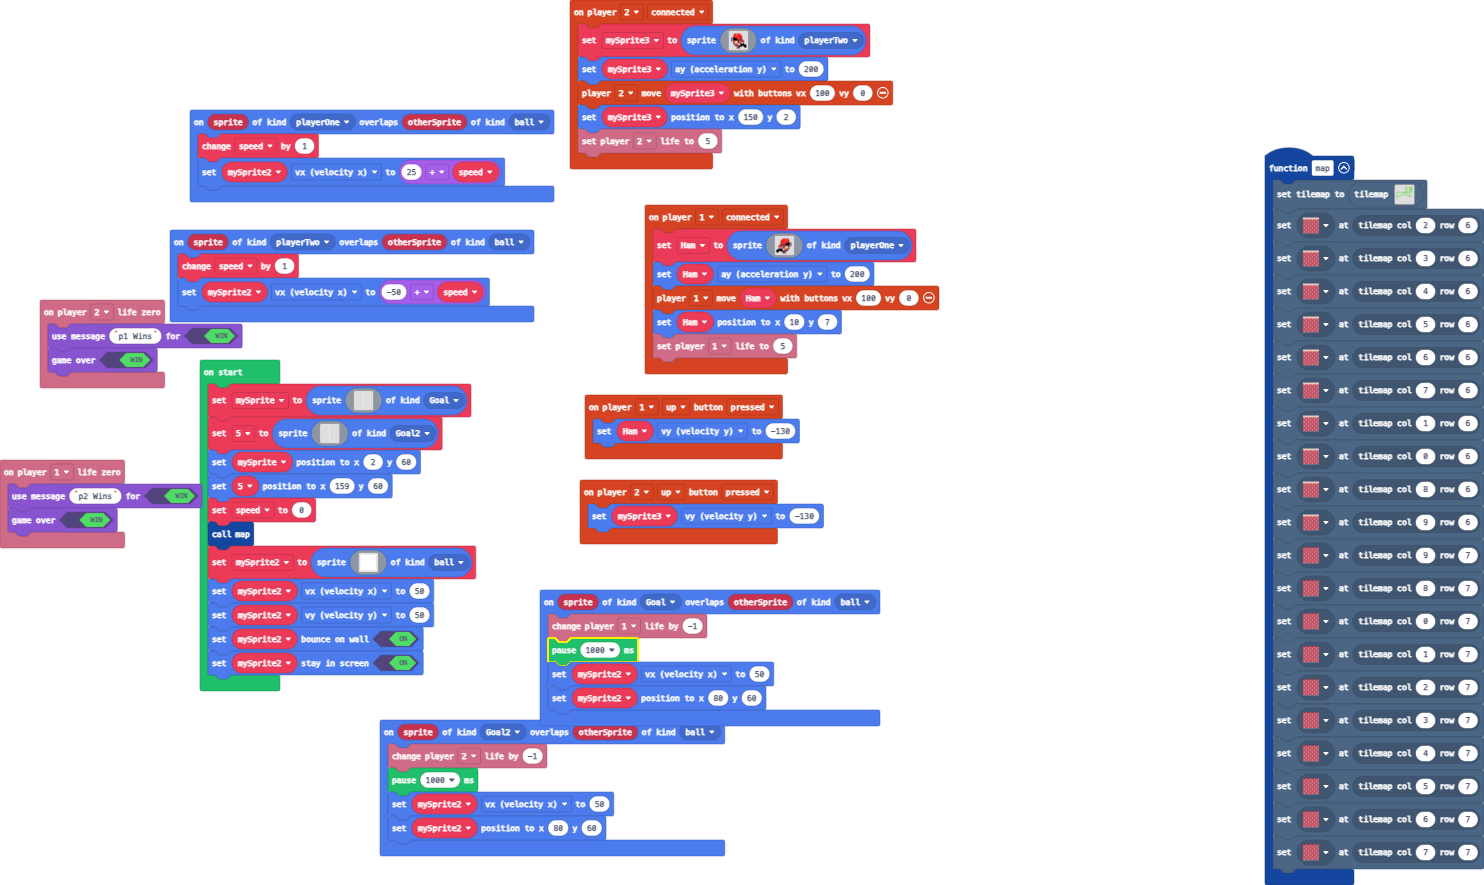
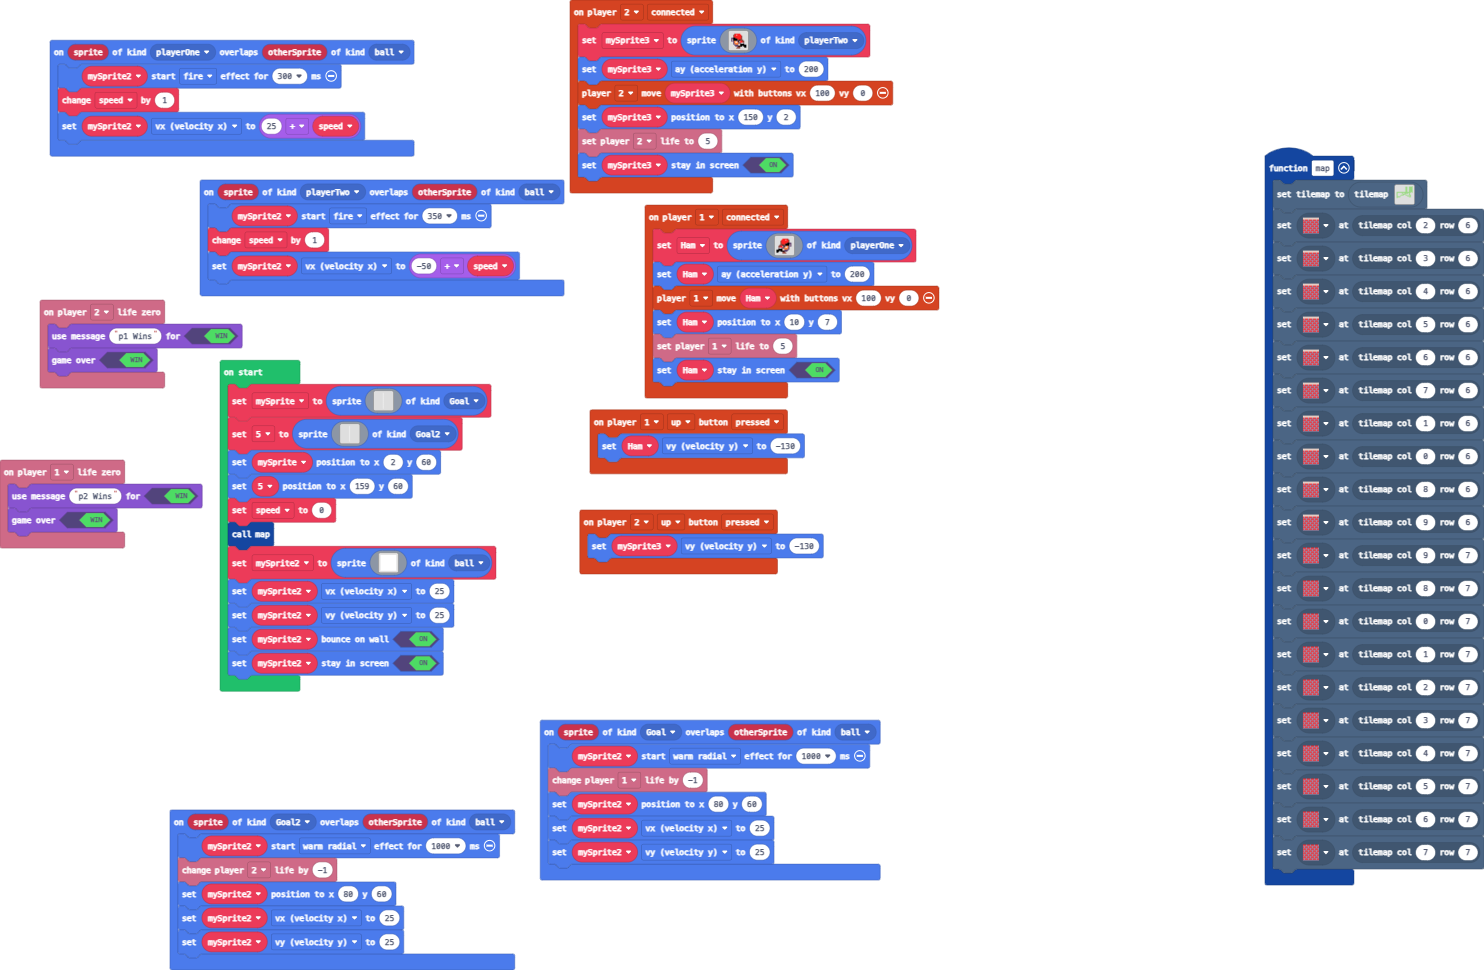
Update main.blocks, main.ts

diff --git a/main.ts b/main.ts
@@ -9,20 +9,23 @@ controller.player1.onButtonEvent(ControllerButton.Up, ControllerButtonEvent.Pres
     Ham.vy = -130
 })
 sprites.onOverlap(SpriteKind.Goal2, SpriteKind.ball, function (sprite, otherSprite) {
+    mySprite2.startEffect(effects.warmRadial, 1000)
     info.player2.changeLifeBy(-1)
-    pause(1000)
-    mySprite2.vx = 50
     mySprite2.setPosition(80, 60)
+    mySprite2.vx = 25
+    mySprite2.vy = 25
 })
 sprites.onOverlap(SpriteKind.playerOne, SpriteKind.ball, function (sprite, otherSprite) {
+    mySprite2.startEffect(effects.fire, 300)
     speed += 1
     mySprite2.vx = 25 + speed
 })
 sprites.onOverlap(SpriteKind.Goal, SpriteKind.ball, function (sprite, otherSprite) {
+    mySprite2.startEffect(effects.warmRadial, 1000)
     info.player1.changeLifeBy(-1)
-    pause(1000)
-    mySprite2.vx = 50
     mySprite2.setPosition(80, 60)
+    mySprite2.vx = 25
+    mySprite2.vy = 25
 })
 controller.player2.onButtonEvent(ControllerButton.Up, ControllerButtonEvent.Pressed, function () {
     mySprite3.vy = -130
@@ -81,8 +84,10 @@ controller.player2.onEvent(ControllerEvent.Connected, function () {
     controller.player2.moveSprite(mySprite3, 100, 0)
     mySprite3.setPosition(150, 2)
     info.player2.setLife(5)
+    mySprite3.setStayInScreen(true)
 })
 sprites.onOverlap(SpriteKind.playerTwo, SpriteKind.ball, function (sprite, otherSprite) {
+    mySprite2.startEffect(effects.fire, 350)
     speed += 1
     mySprite2.vx = -50 + speed
 })
@@ -109,6 +114,7 @@ controller.player1.onEvent(ControllerEvent.Connected, function () {
     controller.player1.moveSprite(Ham, 100, 0)
     Ham.setPosition(10, 7)
     info.player1.setLife(5)
+    Ham.setStayInScreen(true)
 })
 let mySprite3: Sprite = null
 let Ham: Sprite = null
@@ -368,7 +374,7 @@ mySprite2 = sprites.create(img`
     1 1 1 1 
     1 1 1 1 
     `, SpriteKind.ball)
-mySprite2.vx = 50
-mySprite2.vy = 50
+mySprite2.vx = 25
+mySprite2.vy = 25
 mySprite2.setBounceOnWall(true)
 mySprite2.setStayInScreen(true)
